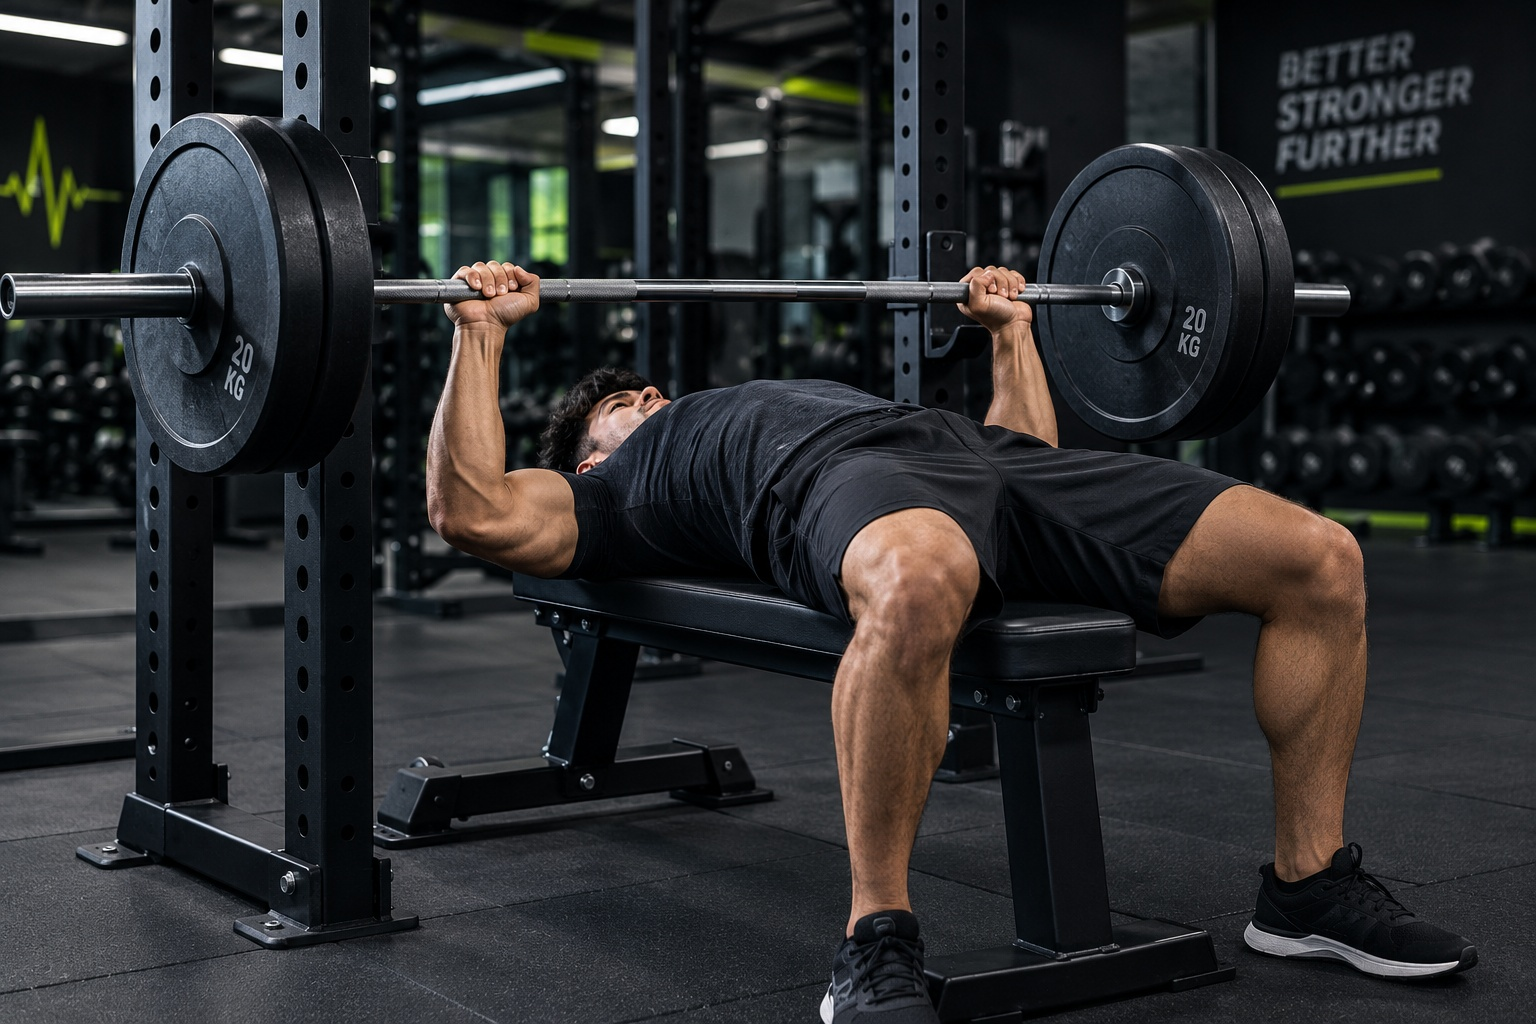
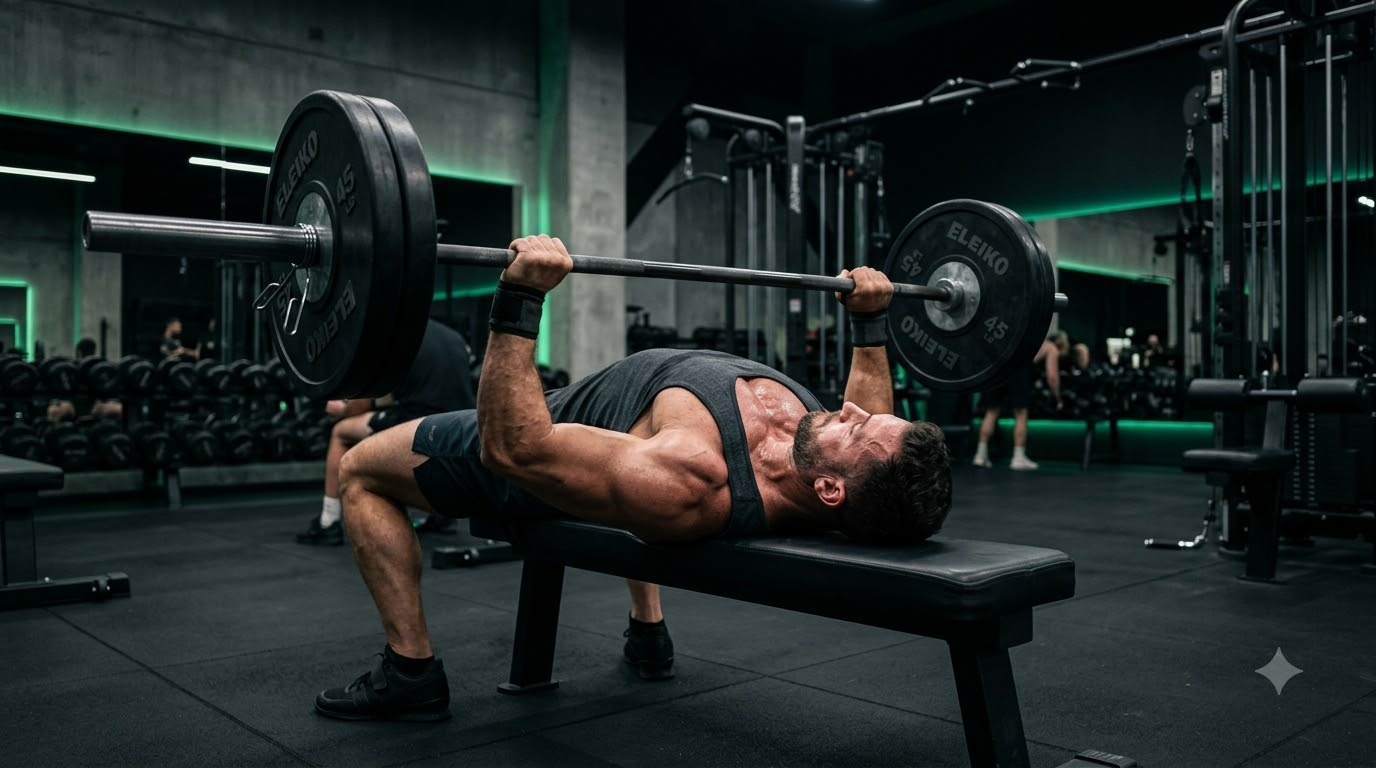
Updated UI

diff --git a/src/screens/Profile.jsx b/src/screens/Profile.jsx
@@ -4,7 +4,6 @@ import {
   Edit3,
   Flame,
   Target,
-  UserRound,
 } from "lucide-react";
 
 import Sidebar from "../components/Sidebar";
@@ -15,14 +14,14 @@ function Profile({ navigate }) {
       <Sidebar navigate={navigate} active="profile" />
 
       <main className="profile-main">
-
         {/* PROFILE HEADER */}
         <section className="profile-header">
-
           <div className="profile-user">
-
             <div className="profile-avatar">
-              <UserRound size={34} />
+              <img
+                src="/images/profile.jpg"
+                alt="Karthik profile"
+              />
             </div>
 
             <div className="profile-user-info">
@@ -35,30 +34,24 @@ function Profile({ navigate }) {
                 Chennai, Tamil Nadu · Premium Member since Jan 2026
               </p>
             </div>
-
           </div>
 
           <button className="profile-edit-button">
             <Edit3 size={15} />
             EDIT PROFILE
           </button>
-
         </section>
-
 
         {/* STATS */}
         <section className="profile-stats">
-
           <div className="profile-stat-card">
             <div className="profile-stat-icon">
               <Activity size={17} />
             </div>
 
             <strong>148 hrs</strong>
-
             <span>Total Active Time</span>
           </div>
-
 
           <div className="profile-stat-card">
             <div className="profile-stat-icon">
@@ -66,10 +59,8 @@ function Profile({ navigate }) {
             </div>
 
             <strong>12,450 kcal</strong>
-
             <span>Energy Expended</span>
           </div>
-
 
           <div className="profile-stat-card">
             <div className="profile-stat-icon">
@@ -77,19 +68,13 @@ function Profile({ navigate }) {
             </div>
 
             <strong>84 workouts</strong>
-
             <span>Completed Sessions</span>
           </div>
-
         </section>
 
-
-        {/* INFORMATION */}
+        {/* PROFILE INFORMATION */}
         <section className="profile-info-grid">
-
-          {/* PERSONAL INFO */}
           <div className="profile-info-section">
-
             <div className="profile-section-heading">
               <div>
                 <p>PERSONAL INFORMATION</p>
@@ -97,34 +82,24 @@ function Profile({ navigate }) {
               </div>
             </div>
 
-
             <div className="profile-fields">
-
               <div className="profile-field">
                 <label>HEIGHT (cm)</label>
-
                 <div className="profile-input">
                   180 cm
                 </div>
               </div>
 
-
               <div className="profile-field">
                 <label>TARGET WEIGHT (kg)</label>
-
                 <div className="profile-input">
                   82 kg
                 </div>
               </div>
-
             </div>
-
           </div>
 
-
-          {/* FITNESS TARGETS */}
           <div className="profile-info-section">
-
             <div className="profile-section-heading">
               <div>
                 <p>TRAINING PROFILE</p>
@@ -132,38 +107,27 @@ function Profile({ navigate }) {
               </div>
             </div>
 
-
             <div className="profile-fields">
-
               <div className="profile-field">
                 <label>TRAINING FOCUS</label>
-
                 <div className="profile-input">
                   Hypertrophy &amp; Stamina
                 </div>
               </div>
 
-
               <div className="profile-field">
                 <label>FREQUENCY PREFERENCE</label>
-
                 <div className="profile-input">
                   5 Days / Week
                 </div>
               </div>
-
             </div>
-
           </div>
-
         </section>
 
-
-        {/* ADDITIONAL PROFILE */}
+        {/* EXTRA INFO */}
         <section className="profile-extra">
-
           <div className="profile-extra-card">
-
             <div className="profile-extra-icon">
               <CalendarDays size={18} />
             </div>
@@ -172,12 +136,9 @@ function Profile({ navigate }) {
               <span>MEMBER SINCE</span>
               <strong>JANUARY 2026</strong>
             </div>
-
           </div>
 
-
           <div className="profile-extra-card">
-
             <div className="profile-extra-icon">
               <Activity size={18} />
             </div>
@@ -186,12 +147,9 @@ function Profile({ navigate }) {
               <span>CURRENT LEVEL</span>
               <strong>ATHLETE LEVEL 14</strong>
             </div>
-
           </div>
 
-
           <div className="profile-extra-card">
-
             <div className="profile-extra-icon">
               <Target size={18} />
             </div>
@@ -200,11 +158,8 @@ function Profile({ navigate }) {
               <span>PRIMARY GOAL</span>
               <strong>BUILD PERFORMANCE</strong>
             </div>
-
           </div>
-
         </section>
-
       </main>
     </div>
   );

diff --git a/src/components/Sidebar.jsx b/src/components/Sidebar.jsx
@@ -10,20 +10,47 @@ import {
   Settings,
   ShieldCheck,
   Target,
-  UserRound,
 } from "lucide-react";
 
 import Logo from "./Logo";
 
 function Sidebar({ navigate, active = "dashboard" }) {
   const menuItems = [
-    { label: "Dashboard", icon: LayoutDashboard, screen: "dashboard" },
-    { label: "Workout Plans", icon: Dumbbell, screen: "workout-plans" },
-    { label: "Exercise Library", icon: BookOpen, screen: "exercise-library" },
-    { label: "Exercise Details", icon: BookOpen, screen: "exercise-details" },
-    { label: "Workout Tracking", icon: Activity, screen: "workout-tracking" },
-    { label: "Analytics", icon: BarChart3, screen: "analytics" },
-    { label: "Goals", icon: Target, screen: "goals" },
+    {
+      label: "Dashboard",
+      icon: LayoutDashboard,
+      screen: "dashboard",
+    },
+    {
+      label: "Workout Plans",
+      icon: Dumbbell,
+      screen: "workout-plans",
+    },
+    {
+      label: "Exercise Library",
+      icon: BookOpen,
+      screen: "exercise-library",
+    },
+    {
+      label: "Exercise Details",
+      icon: BookOpen,
+      screen: "exercise-details",
+    },
+    {
+      label: "Workout Tracking",
+      icon: Activity,
+      screen: "workout-tracking",
+    },
+    {
+      label: "Analytics",
+      icon: BarChart3,
+      screen: "analytics",
+    },
+    {
+      label: "Goals",
+      icon: Target,
+      screen: "goals",
+    },
     {
       label: "Calorie & Activity Tracking",
       icon: ShieldCheck,
@@ -59,10 +86,12 @@ function Sidebar({ navigate, active = "dashboard" }) {
 
   return (
     <aside className="sidebar">
+      {/* LOGO */}
       <div className="sidebar-logo">
         <Logo />
       </div>
 
+      {/* NAVIGATION */}
       <nav className="sidebar-nav">
         {menuItems.map((item) => {
           const Icon = item.icon;
@@ -89,6 +118,7 @@ function Sidebar({ navigate, active = "dashboard" }) {
         })}
       </nav>
 
+      {/* PROFILE */}
       <button
         className={`sidebar-user ${
           active === "profile" ? "profile-active" : ""
@@ -96,7 +126,10 @@ function Sidebar({ navigate, active = "dashboard" }) {
         onClick={() => navigate("profile")}
       >
         <div className="user-avatar">
-          <UserRound size={16} />
+          <img
+            src="/images/profile.jpg"
+            alt="Karthik"
+          />
         </div>
 
         <div className="user-details">

diff --git a/src/styles.css b/src/styles.css
@@ -13622,3 +13622,73 @@ button {
     display: none;
   }
 }
+/* =========================================================
+   PROFILE PHOTO
+========================================================= */
+
+.profile-avatar {
+  width: 76px !important;
+  height: 76px !important;
+
+  flex-shrink: 0;
+
+  overflow: hidden;
+
+  display: flex;
+  align-items: center;
+  justify-content: center;
+
+  border: 2px solid var(--lime) !important;
+  border-radius: 50% !important;
+
+  background: #15171e;
+
+  box-shadow: 0 0 0 4px rgba(200, 255, 0, 0.06);
+}
+
+.profile-avatar img {
+  width: 100%;
+  height: 100%;
+
+  display: block;
+
+  object-fit: cover;
+  object-position: center;
+
+  border-radius: 50%;
+}
+/* =========================================================
+   SIDEBAR PROFILE PHOTO
+========================================================= */
+
+.sidebar-user .user-avatar {
+  width: 34px !important;
+  height: 34px !important;
+
+  flex-shrink: 0;
+
+  overflow: hidden;
+
+  display: flex !important;
+  align-items: center;
+  justify-content: center;
+
+  padding: 0 !important;
+
+  border: 1px solid #8ca900 !important;
+  border-radius: 50% !important;
+
+  background: #15171e !important;
+}
+
+.sidebar-user .user-avatar img {
+  width: 100%;
+  height: 100%;
+
+  display: block;
+
+  object-fit: cover;
+  object-position: center;
+
+  border-radius: 50%;
+}
